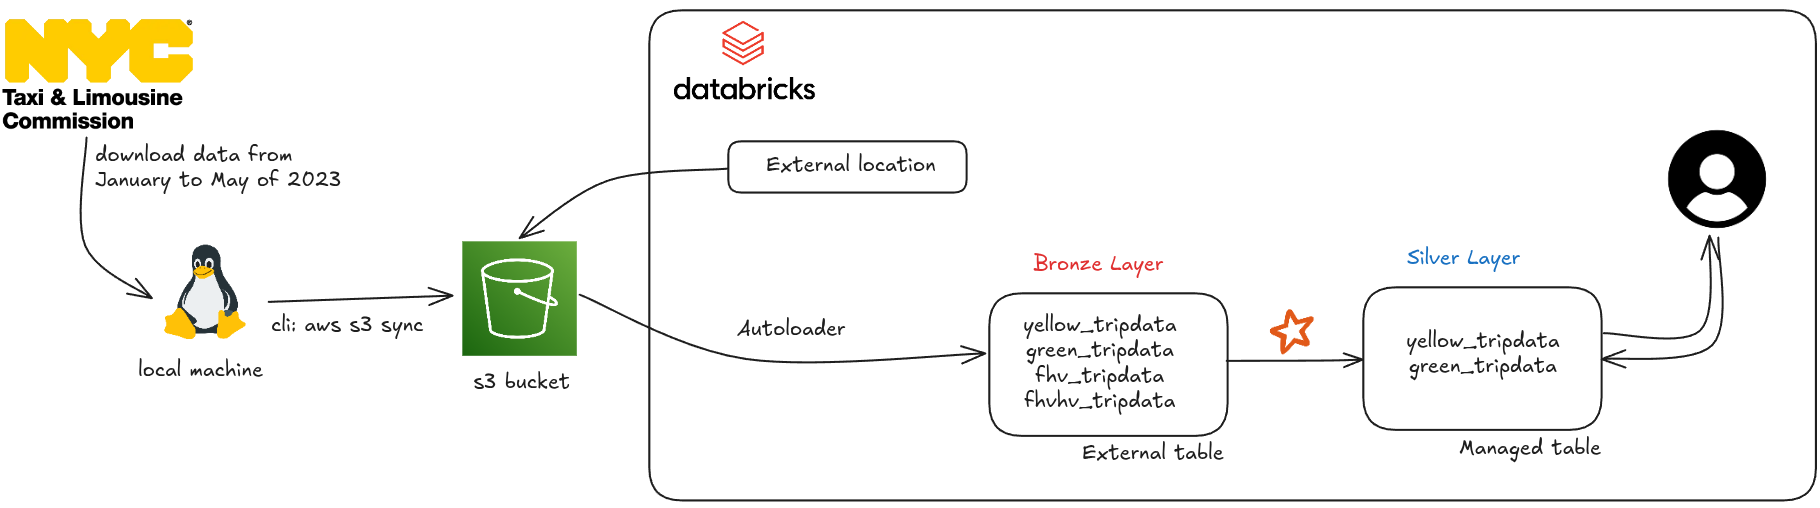
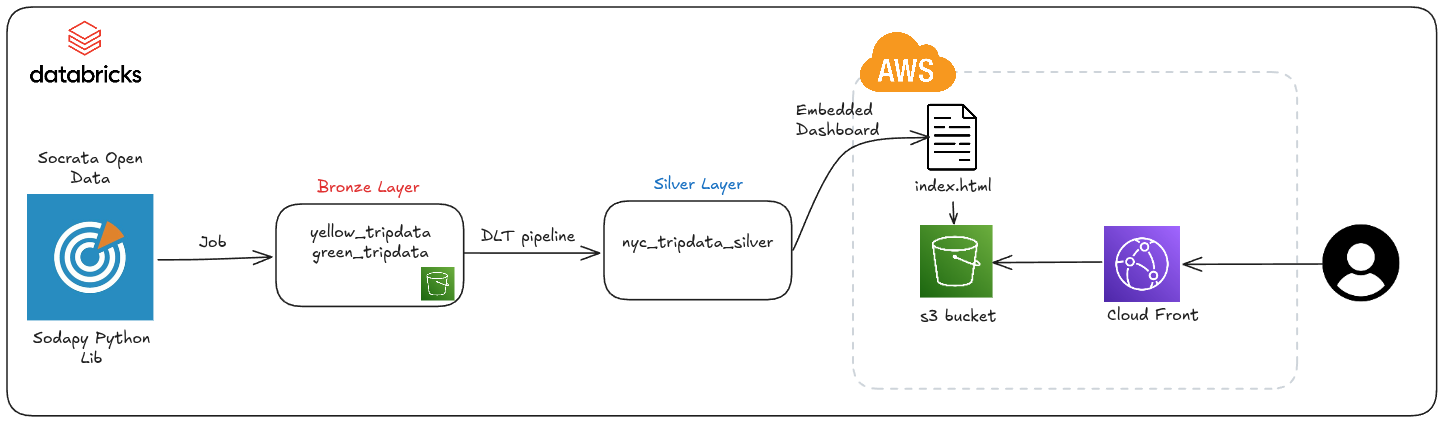
feat: update readme

diff --git a/README.md b/README.md
@@ -11,85 +11,7 @@ O case consiste em **armazenar e disponibilizar os dados de Janeiro a Maio de 20
 ## Solução
 
 ### Obtenção dos dados
-Como **não foi identificada uma API oficial** para ingestão automatizada, optou-se pelo download manual **dos arquivos** `.parquet` referentes ao período de interesse.
-
-No total, foram baixados 20 arquivos, referentes aos seguintes tipos de dados:
-- **yellow_tripdata**
-- **green_tripdata**
-- **fhv_tripdata**
-- **fhvhv_tripdata**
-
-Os arquivos foram organizados em **pastas separadas** de acordo com o tipo de dado de origem.
-
-### Storage: Bucket no S3
-O armazenamento foi feito em um **bucket no Amazon S3**, criado via **Terraform**. 
-
-Para envio dos arquivos locais ao bucket, utilizou-se o seguinte comando com **AWS CLI**:
-
-`aws s3 sync ../tripdata s3://ifood-architect-taxi-case-dev-us-east-2-{AWS_ACCOUNT_ID} --profile dev`
-
-#### Print do Bucket no S3  
-
-![img](.img/s3_bucket.png)
-
-### Bronze Layer
-Para ingestão dos dados no **Databricks Free Edition**, foi necessário configurar uma **External Location** que permitisse o consumo direto dos dados no S3.
-
-Configuração inicial via Quickstart:
-
-![img](.img/external_location.png)
-
-#### Segurança
-Foi criado um scope e um secret para armazenar o **AWS Account ID**, utilizando o **Databricks CLI**:
-
-```
-databricks secrets create-scope db-scope
-databricks secrets put-secret db-scope aws_account_id --string-value={AWS_ACCOUNT_ID}
-```
-
-A ingestão foi feita via Autoloader para garantir um processo incremental e resiliente. O notebook responsável pela carga está disponível em: [Script](.src/ingestion_data_into_bronze_layer.ipynb).
-
-### Silver Layer
-Na camada Silver, os dados foram processados para:
-
-- Manter apenas as colunas relevantes;
-- Garantir consistência de partições.
-
-O notebook responsável está em: [Script](.src/load_data_into_silver_layer.ipynb).
-
-## Perguntas Case
-1. Qual a média de valor total (total\_amount) recebido em um mês considerando todos os yellow táxis da frota?
-
-    Ou seja a média é de aproximadamente **$90,120,269.65**.
-
-2. Qual a média de passageiros (passenger\_count) por cada hora do dia que pegaram táxi no mês de maio considerando todos os táxis da frota?
-
-    | hour | average_passenger |
-    | ---- | ------ |
-    |00:00 |	1.41|
-    |01:00 |	1.42|
-    |02:00 |	1.44|
-    |03:00 |	1.43|
-    |04:00 |	1.39|
-    |05:00 |	1.26|
-    |06:00 |	1.24|
-    |07:00 |	1.25|
-    |08:00 |	1.26|
-    |09:00 |	1.28|
-    |10:00 |	1.32|
-    |11:00 |	1.33|
-    |12:00 |	1.35|
-    |13:00 |	1.35|
-    |14:00 |	1.36|
-    |15:00 |	1.37|
-    |16:00 |	1.37|
-    |17:00 |	1.36|
-    |18:00 |	1.36|
-    |19:00 |	1.37|
-    |20:00 |	1.38|
-    |21:00 |	1.40|
-    |22:00 |	1.41|
-    |23:00 |	1.41|
+Utilizou-se a biblioteca em Python [sodapy](https://pypi.org/project/sodapy/).
 
 ## Tecnologias
 - Pyspark
@@ -99,10 +21,3 @@ O notebook responsável está em: [Script](.src/load_data_into_silver_layer.ipyn
 - Databricks (Autoloader, Delta Lake, CLI, Secrets)
 - Git
 - Jira
-
-## Conclusão
-A solução proposta:
-
-- Centraliza os dados brutos em uma camada Bronze no S3;
-- Estrutura os dados limpos em uma camada Silver no Databricks;
-- Automatiza a ingestão com uso de ferramentas modernas como Terraform, Databricks Autoloader e AWS CLI.
